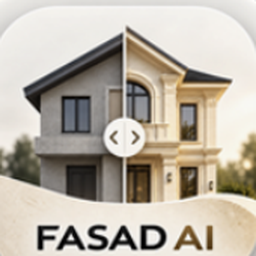
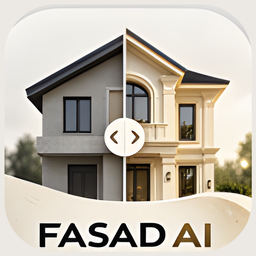
Fasad: новая иконка приложения во всех размерах
Иконка с экрана «Домой» (дом до/после, FASAD AI), увеличена нейросетью
Real-ESRGAN: 16–1024 px, favicon.ico, apple-touch-icon 120/152/167/180,
manifest 192/512/1024 + maskable, уведомления, офлайн-страница,
«О приложении». Старая icon.svg убрана.

Claude-Session: https://claude.ai/code/session_01XMvuoiqj19J3oWKFVjU553

diff --git a/fasad/index.html b/fasad/index.html
@@ -13,8 +13,14 @@
   <link rel="manifest" href="manifest.json">
   
   <!-- iOS Touch Icons -->
-  <link rel="icon" href="icon.svg" type="image/svg+xml">
+  <link rel="icon" href="favicon.ico" sizes="any">
+  <link rel="icon" type="image/png" sizes="32x32" href="icon-32.png">
+  <link rel="icon" type="image/png" sizes="192x192" href="icon-192.png">
+  <link rel="apple-touch-icon" href="icon-180.png">
   <link rel="apple-touch-icon" sizes="180x180" href="icon-180.png">
+  <link rel="apple-touch-icon" sizes="167x167" href="icon-167.png">
+  <link rel="apple-touch-icon" sizes="152x152" href="icon-152.png">
+  <link rel="apple-touch-icon" sizes="120x120" href="icon-120.png">
   
   <title>Fasad AI — Создавайте идеальные фасады</title>
   <link rel="stylesheet" href="css/variables.css?v=007">

diff --git a/fasad/offline.html b/fasad/offline.html
@@ -5,7 +5,7 @@
   <meta name="viewport" content="width=device-width, initial-scale=1.0, viewport-fit=cover">
   <meta name="theme-color" content="#C9A86A">
   <title>Fasad AI — нет подключения</title>
-  <link rel="icon" href="icon.svg">
+  <link rel="icon" href="favicon.ico">
   <style>
     body {
       margin: 0;
@@ -37,7 +37,7 @@
 </head>
 <body>
   <main>
-    <img src="icon.svg" alt="">
+    <img src="icon-192.png" alt="" style="border-radius:22%">
     <h1>Нет подключения к интернету</h1>
     <p>Fasad AI нужен интернет, чтобы загружать фото и создавать дизайн. Проверьте соединение и попробуйте снова.</p>
     <button onclick="location.reload()">Повторить</button>

diff --git a/fasad/js/profile.js b/fasad/js/profile.js
@@ -189,7 +189,7 @@ function onScreenAbout() {
   const v = document.querySelector('script[src*="coins.js"]')?.src.match(/v=([a-z0-9]+)/i)?.[1] || '';
   document.getElementById('about-content').innerHTML = `
     <div class="about">
-      <div class="about__logo">F</div>
+      <img class="about__logo" src="icon-192.png" alt="Fasad AI">
       <h2>Fasad</h2>
       <p class="about__lead">Приложение для прорабов: покажите заказчику его дом в натуральном камне ещё до начала работ.</p>
       <ul class="about__list">

diff --git a/fasad/sw.js b/fasad/sw.js
@@ -44,7 +44,8 @@ const STATIC_ASSETS = [
 
   // PWA
   'manifest.json',
-  'icon.svg',
+  'favicon.ico',
+  'icon-32.png',
   'icon-180.png',
   'icon-192.png',
   'icon-512.png',
@@ -158,8 +159,8 @@ self.addEventListener('push', (event) => {
   const title = data.title || 'Fasad AI';
   const options = {
     body: data.body || 'Новое обновление!',
-    icon: 'icon.svg',
-    badge: 'icon.svg',
+    icon: 'icon-192.png',
+    badge: 'icon-96.png',
   };
   event.waitUntil(self.registration.showNotification(title, options));
 });

diff --git a/fasad/css/catalog.css b/fasad/css/catalog.css
@@ -2392,15 +2392,10 @@
 }
 
 .about__logo {
-  display: grid;
-  place-items: center;
-  width: 76px;
-  height: 76px;
-  border-radius: 22px;
-  background: linear-gradient(135deg, var(--color-accent), #2b2620);
-  color: #fff;
-  font-size: 38px;
-  font-weight: 800;
+  width: 88px;
+  height: 88px;
+  border-radius: 22%;
+  box-shadow: 0 6px 20px rgba(0, 0, 0, 0.15);
 }
 
 .about__lead {
